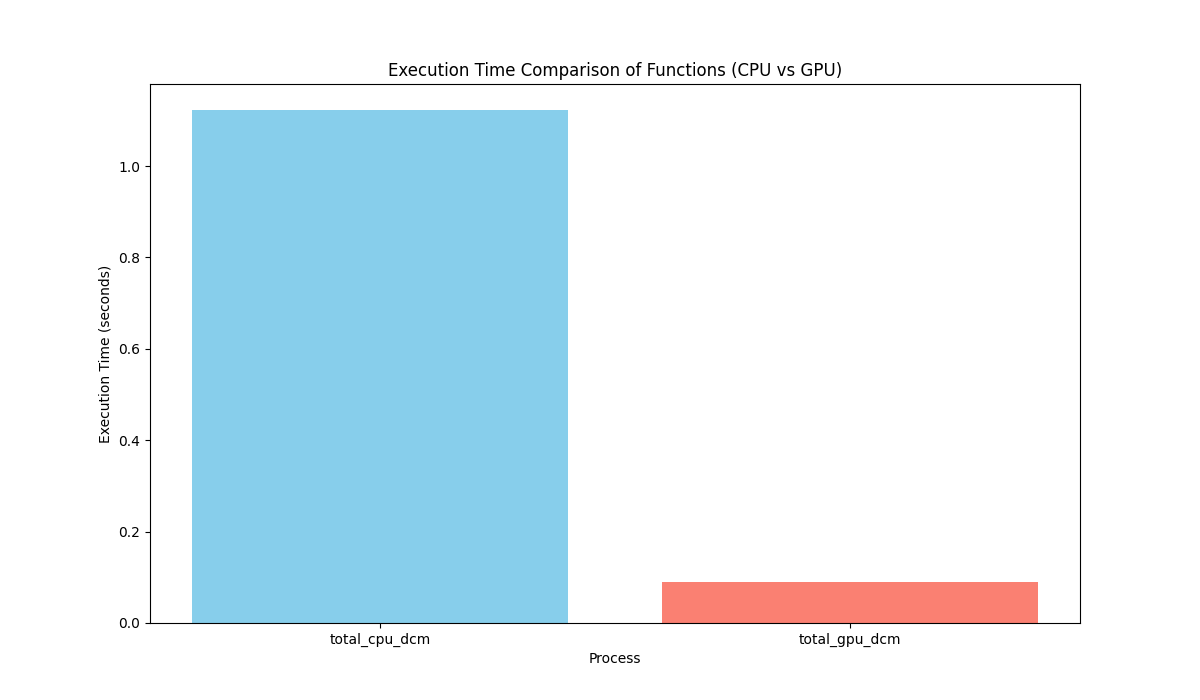
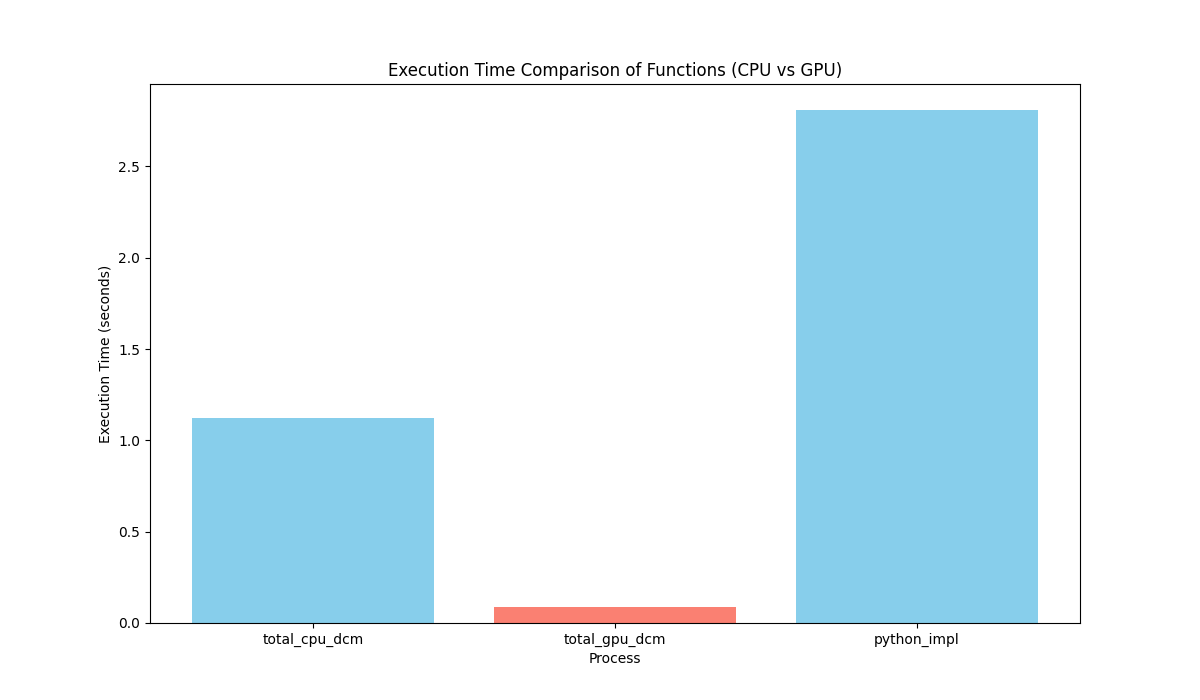
add a simple implementation calling glcm from skiimage

diff --git a/benchmark/glcm_py.py b/benchmark/glcm_py.py
@@ -1,0 +1,73 @@
+import numpy as np
+import csv
+import uuid
+import os
+from skimage.feature import graycomatrix
+from pydicom import dcmread
+import time
+
+import os
+import fnmatch
+
+def list_images_recursive(dir_path, extensions=("*.dcm")):
+    image_files = []
+    for root, _, files in os.walk(dir_path):
+        for file in files:
+            if fnmatch.fnmatch(file, extensions):
+                image_files.append(os.path.join(root, file))
+    return image_files
+
+
+def save_glcm_to_csv(glcm, output_dir, filename="output.csv"):
+    # Check if output_dir is valid
+    if not output_dir:
+        raise ValueError("output_dir cannot be empty")
+    
+    # Ensure the output directory exists
+    os.makedirs(output_dir, exist_ok=True)
+
+    # Full path for the output file
+    file_path = os.path.join(output_dir, filename)
+
+    # Save GLCM to a CSV file
+    import numpy as np
+    np.savetxt(file_path, glcm, delimiter=",")
+    print(f"GLCM saved to {file_path}")
+
+# Example usage
+images = list_images_recursive("../dataset/")
+print(f"Found {len(images)} DICOM images")
+
+distances = [1]  # Distance of 1 pixel
+angles = [0, np.pi / 4, np.pi / 2, 3 * np.pi / 4, np.pi, 5 * np.pi / 4, 3 * np.pi / 2, 7 * np.pi / 4]
+
+start = time.time()
+glcms = []
+for img in images:
+    print(img)
+# Compute GLCM for all angles
+    dcm = dcmread(img)
+    glcms.append(graycomatrix(
+        dcm.pixel_array.astype(np.uint8),
+        distances=distances,
+        angles=angles,
+        symmetric=True,
+        normed=True
+    ))
+    
+elapsed_time = time.time() - start
+
+for glcm in glcms:
+    name = str(uuid.uuid4())
+    for angle in range(glcm.shape[3]):
+        print(f"Saving GLCM to {name}.csv")
+        save_glcm_to_csv(glcm[:, :, 0, angle], "./output", f"{name}.csv")
+
+# Save elapsed time to CSV
+csv_path = os.path.join("../", "benchmark_times.csv")
+with open(csv_path, mode="w", newline="") as file:
+    writer = csv.writer(file)
+    writer.writerow(["string", "time"])
+    writer.writerow(["python_glcm", elapsed_time])
+
+print(f"Benchmark times saved to {csv_path}")

diff --git a/plot_total.py b/plot_total.py
@@ -14,10 +14,12 @@ def read_csv(file_path):
             times.append(float(row['time']))
     return functions, times
 
-def plot_execution_times(times_cpu, times_gpu, name):
+def plot_execution_times(times_cpu, times_gpu, python_impl,  name):
     cpu = pd.DataFrame({"fn": ["total_cpu_dcm"], "time": [times_cpu[0]]})
     gpu = pd.DataFrame({"fn": ["total_gpu_dcm"], "time": [times_gpu[0]]})
-    data = pd.concat([cpu, gpu]).reset_index(drop=True)
+    python = pd.DataFrame({"fn": ["python_impl"], "time": [python_impl[0]]})
+    print(python)
+    data = pd.concat([cpu, gpu, python]).reset_index(drop=True)
     plt.figure(figsize=(12, 7))
     plt.bar(data["fn"], data["time"], color=["skyblue", "salmon"])
     plt.xlabel('Process')
@@ -29,4 +31,5 @@ def plot_execution_times(times_cpu, times_gpu, name):
 if __name__ == "__main__":
     functions_cpu, times_cpu = read_csv("./total_cpu.csv")
     functions_gpu, times_gpu = read_csv("./total_gpu.csv")
-    plot_execution_times(times_cpu, times_gpu, "total_time_comparison.png")
+    python_impll, python_impl= read_csv("./benchmark_times.csv")
+    plot_execution_times(times_cpu, times_gpu, python_impl, "total_time_comparison.png")

diff --git a/README.md b/README.md
@@ -9,6 +9,7 @@ CSV file to be input in a machine learning model/cnn/transformer.
 - [x] glcm in gpu for 8 directions
 - [x] glcm using openmp for 8 directions
 - [x] implement normalization in gpu and cpu 
+- [x] implement in python and compare with the c++ implementation
 - [ ] implement features in gpu and cpu
 - [ ] implement average in gpu and cpu
 - [ ] implement variance in gpu and cpu
@@ -54,10 +55,18 @@ cmake .. & make
 ./glcm_cpu
 ```
 
+to run the python implementation
+```bash 
+cd benchmark
+&& pip install -r requirements.txt 
+&& python glcm.py
+```
+
 Then you can plot the graph for comparison the CPU approach and the GPU approach
 `python -m venv venv && . ./venv/bin/activate && pip install -r requirements.txt`
 
-```bash python plot_total.py ```
+```bash 
+python plot_total.py ```
 this will save in the disk
 
 ## Cofig
@@ -106,5 +115,5 @@ on fedora ```sudo dnf install dcmtk```
 and on ubuntu ```sudo apt-get install dcmtk```
 
 
-## References papers
+## References papers and code
 

diff --git a/benchmark/README.md b/benchmark/README.md
@@ -1,0 +1,4 @@
+## GLCM with sckit-image
+
+This is a simple implementation of glcm with sckit-image.
+The compare with c++ implementation
